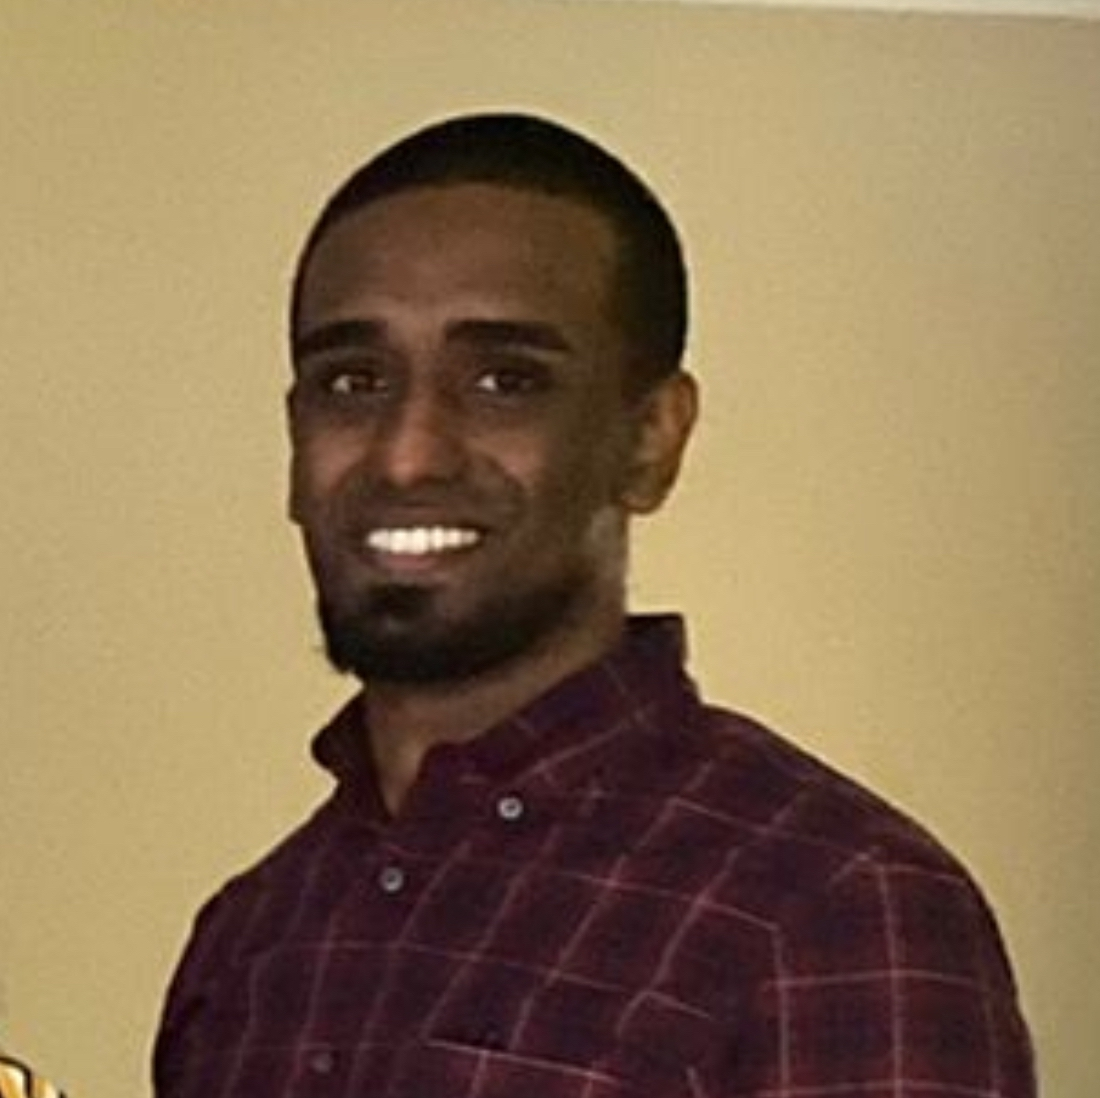
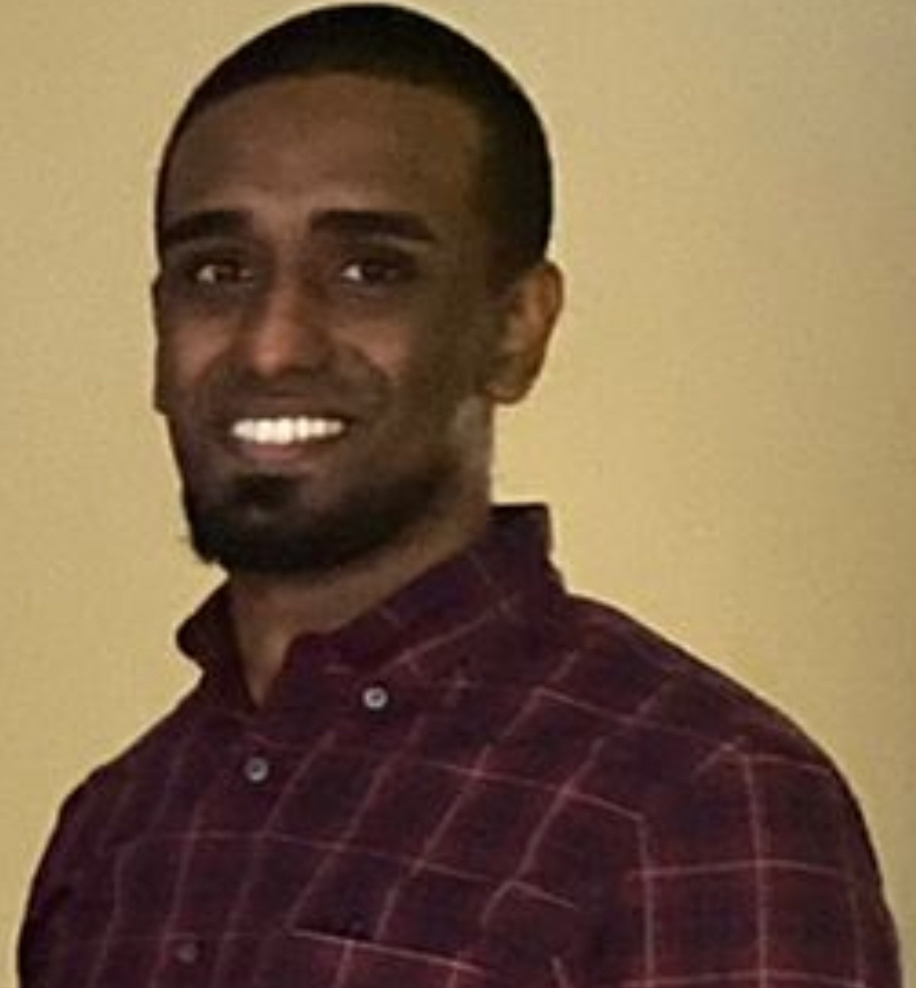
styling for profile page, navbar

diff --git a/src/components/HomePage.js b/src/components/HomePage.js
@@ -1,73 +1,105 @@
 import React from 'react';
 import torontoSkyline from '../images/torontoSkyline.jpeg'
-import profilePic from '../images/profile.jpg'
+import profilePic from '../images/profile.png'
 import projectsLogo from '../images/projects-logo.svg'
+import resumeLogo from '../images/resume-logo.svg'
+import contactLogo from '../images/contact-logo.svg'
 
-function HomePage(props) {
+function HomePage({ setContent }) {
+
+
+    const closeContactHandler = (e) => {
+        const contactContainer = document.getElementById('contact-container');
+        contactContainer.style = "display:none;"
+    }
+
+    const openContactHandler = () => {
+        const contactContainer = document.getElementById('contact-container');
+        contactContainer.style = "display:block;"
+    }
+
+    const style = {
+        color: '#593131',
+        textAlign: 'center',
+        marginBottom: '5px'
+    }
+
     return (
         <div class="homePage">
-            <div class="profile-container">
-                <div class="profile-info">
-                    <div class="profile-info-component">
-                        <div class="project-subheading">
-                            Name
-                        </div>
-                        <div class="info">
-                            Abishekh Manoharan
-                        </div>
-                    </div>
-                    <div class="profile-info-component">
-                        <div class="project-subheading">
-                            City, Province
-                        </div>
-                        <div class="info">
-                            Toronto, Ontario
-                        </div>
-                    </div>
-                    <div class="profile-info-component">
-                        <div class="project-subheading">
-                            GitHub
-                        </div>
-                        <div class="info">
-                            <a href="https://github.com/abishekh-manoharan" target='_'>abishekh-manoharan</a>
-                        </div>
-                    </div>
-                    <div class="profile-info-component">
-                        <div class="project-subheading">
-                            Contact Me
-                        </div>
-                        <div class="info">
-                            abishekh.manoharan@outlook.com
-                        </div>
-                    </div>
-                    <div class="profile-info-component">
-                        <div class="project-subheading">
-                            About Me
-                        </div>
-                        <div class="info">
-                        "Sed ut perspiciatis unde omnis iste natus error sit voluptatem accusantium doloremque laudantium, totam rem aperiam, eaque ipsa quae ab illo inventore veritatis et quasi architecto beatae vitae dicta"
-                        </div>
-                    </div>
-                </div>
-
-                <img src={profilePic} class="profilePic" alt="portfolio profile pic" />
-                <div class="profile-background"></div>
+            <div id="contact-container">
+                <button onClick={closeContactHandler}>
+                    close
+                </button>
             </div>
 
-            <div class="home-site-nav">
-                <div class="home-site-nav-component">
-                    <img src={projectsLogo}></img>
+            <div class="profile-layout">
+
+
+                <div class="profile-container">
+                    <div class="profile-info">
+                        <div class="profile-info-component">
+                            <div class="project-subheading">
+                                Name
+                            </div>
+                            <div class="info">
+                                Abishekh Manoharan
+                            </div>
+                        </div>
+                        <div class="profile-info-component">
+                            <div class="project-subheading">
+                                City, Province
+                            </div>
+                            <div class="info">
+                                Toronto, Ontario
+                            </div>
+                        </div>
+                        <div class="profile-info-component">
+                            <div class="project-subheading">
+                                GitHub
+                            </div>
+                            <div class="info">
+                                <a href="https://github.com/abishekh-manoharan" target='_'>abishekh-manoharan</a>
+                            </div>
+                        </div>
+                        <div class="profile-info-component">
+                            <div class="project-subheading" >
+                                E-Mail
+                            </div>
+                            <div class="info">
+                                abishekh.manoharan@outlook.com
+                            </div>
+                        </div>
+                        <div class="profile-info-component">
+                            <div class="project-subheading">
+                                About Me
+                            </div>
+                            <div class="info">
+                                "Sed ut perspiciatis unde omnis iste natus error sit voluptatem accusantium doloremque laudantium, totam rem aperiam, eaque ipsa quae ab illo inventore veritatis et quasi architecto beatae vitae dicta"
+                            </div>
+                        </div>
+                    </div>
+
+                    <img src={profilePic} class="profilePic" alt="portfolio profile pic" />
+                    <div class="profile-background"></div>
                 </div>
-                <div class="home-site-nav-component">
-                    <img src={projectsLogo}></img>
-                </div>
-                <div class="home-site-nav-component">
-                    <img src={projectsLogo}></img>
-                </div>
-                <div class="home-site-nav-component">
-                    <img src={projectsLogo}></img>
-                </div>
+
+
+                {/* <div class="home-site-nav">
+                    <a class="home-site-nav-component">
+                        <div class="project-subheading" style={style}><i>Projects</i></div>
+                        <img src={projectsLogo} class="home-site-nav-img" onClick={() => { setContent('projects') }}></img>
+                    </a>
+                    <a class="home-site-nav-component">
+                        <div class="project-subheading" style={style}><i>Download Resume</i></div>
+                        <img src={resumeLogo} class="home-site-nav-img"></img>
+                    </a>
+                    <a class="home-site-nav-component" onClick={openContactHandler}>
+                        <div class="project-subheading" style={style}><i>Contact Me</i></div>
+                        <img src={contactLogo} class="home-site-nav-img"></img>
+                    </a>
+                </div> */}
             </div>
+
         </div>
     );
 }

diff --git a/public/index.css b/public/index.css
@@ -6,20 +6,20 @@
 .navbar {
     display: flex;
     flex-direction: row;
-    justify-content: flex-end;
+    justify-content: center;
     align-items: center;
 }
 
-.navbarItem:nth-of-type(1) {
-    margin-right: auto;
-}
+/* .navbarItem:nth-of-type(2) {
+    margin-left: auto;
+} */
 
 .navbarItem {
     margin: 0px 5px 5px;
     font-family: 'Open Sans', sans-serif;
     border-radius: 5px;
     border: none;
-    font-size: 16px;
+    font-size: 18px;
     line-height: 1.5;
     color: #333;
     background: #fff;
@@ -54,7 +54,7 @@ body {
     flex-direction: column;
     justify-content: space-evenly;
     align-items: center;
-    gap: 30px;
+    gap: 10px;
 }
 
 .project {
@@ -66,7 +66,7 @@ body {
 
 .project-subheading {
     font-size: small;
-    color: slategray;
+    color: rgb(165, 92, 92);
 }
 
 .project-container {
@@ -78,7 +78,7 @@ body {
         'image url github'
         'tag tag tag'
     ;
-    grid-template-columns: 270fr 330fr 330fr;
+    grid-template-columns: 270fr 330fr 330fr; 
     grid-template-rows: 50px 1fr 60px 50px;
 
     margin-bottom: 20px;
@@ -99,6 +99,7 @@ body {
 
 .header {
     grid-area: header;
+    color: #3f2424;
     display: flex;
     margin: 30px 10px 10px;
     align-items: center;
@@ -235,47 +236,54 @@ body {
 }
 
 .homePage {
+    position: relative;
     width: 980px;
     margin: auto;
+    height: 80vh;
+    display: flex;
+    align-items: center;
 }
 
 
 
 .profile-container {
     position: relative;
-    padding-top: 20px;
+    padding-top: 20px;  
 }
 
 .profile-background {
     position:relative;
-    height: 400px;
+    width: 980px;
+    height: 435px;
     margin-top: 50px;
-    background-color: rgb(255, 249, 231);
+    background-color: rgb(195, 172, 172);
     border-radius: 15px;
-    box-shadow: 10px 10px 50px rgb(209, 209, 209);
+    box-shadow: 1px 1px 10px rgba(81, 80, 80, 0.817);
     z-index: 1;
 }
 
 .profilePic {
     position:absolute;
     /* top: 40px; */
-    left:85px; 
-    width: 370px;
-    border-radius: 100%;
+    left:50px; 
+    width: 450px;
+    /* border-radius: 100%; */
     z-index: 2;
-    box-shadow: 14px 14px 50px rgb(188, 175, 141);
+    -webkit-transform: scaleX(-1);
+    transform: scaleX(-1);
+    /* box-shadow: 15px 15px 50px rgba(81, 80, 80, 0.817); */
 }
 
 .profile-info {
     z-index: 2;
     position: absolute;
     top: 30px;
-    right: 75px;
+    right: 50px;
     width: 400px;
-    height: 400px;
-    background-color: #f6f6f6ba;
+    height: 450px;
+    background-color: #f6f6f6e6;
     border-radius: 20px;
-    box-shadow: 14px 14px 50px rgb(188, 175, 141);
+    box-shadow: 1px 1px 50px rgba(81, 80, 80, 0.817);
     text-align: center;
 
     display: flex;
@@ -303,14 +311,57 @@ a {
 }
 
 .home-site-nav {
-    margin-top: 70px;
+    margin-top: 15px;
     display: flex;
     flex-wrap: wrap;
     align-items: center;
-    justify-content: space-evenly;
-    gap: 20px;
+    justify-content: center;
+    /* gap: 20px; */
+    margin-bottom: 70px;
 }
 
 .home-site-nav-component {
-    width: 350px;
+    /* width: 450px; */
+    /* padding: 50px; */
+    display: flex;
+    align-items: center;
+    justify-content: center;
+    width: 250px;
+    height: 150px;
+    gap: 10px;
+    border: none;
+    border-radius: 20px;
+    background-color: #ffe5e53d;
+    box-shadow: 1px 1px 10px rgba(189, 166, 166, 0.817);
+    margin: 20px 20px;
+    padding:10px;
+}
+
+.home-site-nav-component:hover {
+    box-shadow: 1px 1px 20px rgba(81, 80, 80, 0.817);
+    padding:11px;
+}
+
+.home-site-nav-img {
+    width: 130px;
+}
+
+#contact-container {
+    display: none;
+    width:940px;
+    height: 400px;
+    position: absolute;
+    margin-left: auto;
+    margin-right: auto; 
+    margin: auto;
+    left: 0;
+    right: 0;
+    top:0;
+    bottom:0;
+    
+    background-color: #f6f6f6f6;
+    border-radius: 20px;
+    box-shadow: 1px 1px 50px rgba(81, 80, 80, 0.817);
+
+    z-index:3;
 }

diff --git a/src/components/Layout.js b/src/components/Layout.js
@@ -14,7 +14,7 @@ function Layout(props) {
     }
 
     if(content==='home'){
-        contentToShow = <HomePage/>
+        contentToShow = <HomePage setContent={setContent}/>
     }
     else if (content==='projects'){
         contentToShow=<ProjectsPage/>
@@ -26,7 +26,7 @@ function Layout(props) {
     return (
         <div class="layout">
             <div class="navbar">
-                <button class="navbarItem" onClick={()=>navBarItemClickHandler('home')}>Logo</button>
+                {/* <button class="navbarItem" onClick={()=>navBarItemClickHandler('home')}>Logo</button> */}
                 <button class="navbarItem" onClick={()=>navBarItemClickHandler('home')}>Home</button>
                 <button class="navbarItem" onClick={()=>navBarItemClickHandler('projects')}>Projects</button>
                 {/* <button class="navbarItem" onClick={()=>navBarItemClickHandler('contacts')}>Contact</button> */}

diff --git a/public/index.html b/public/index.html
@@ -40,5 +40,7 @@
       To begin the development, run `npm start` or `yarn start`.
       To create a production bundle, use `npm run build` or `yarn build`.
     -->
+
+
   </body>
 </html>
